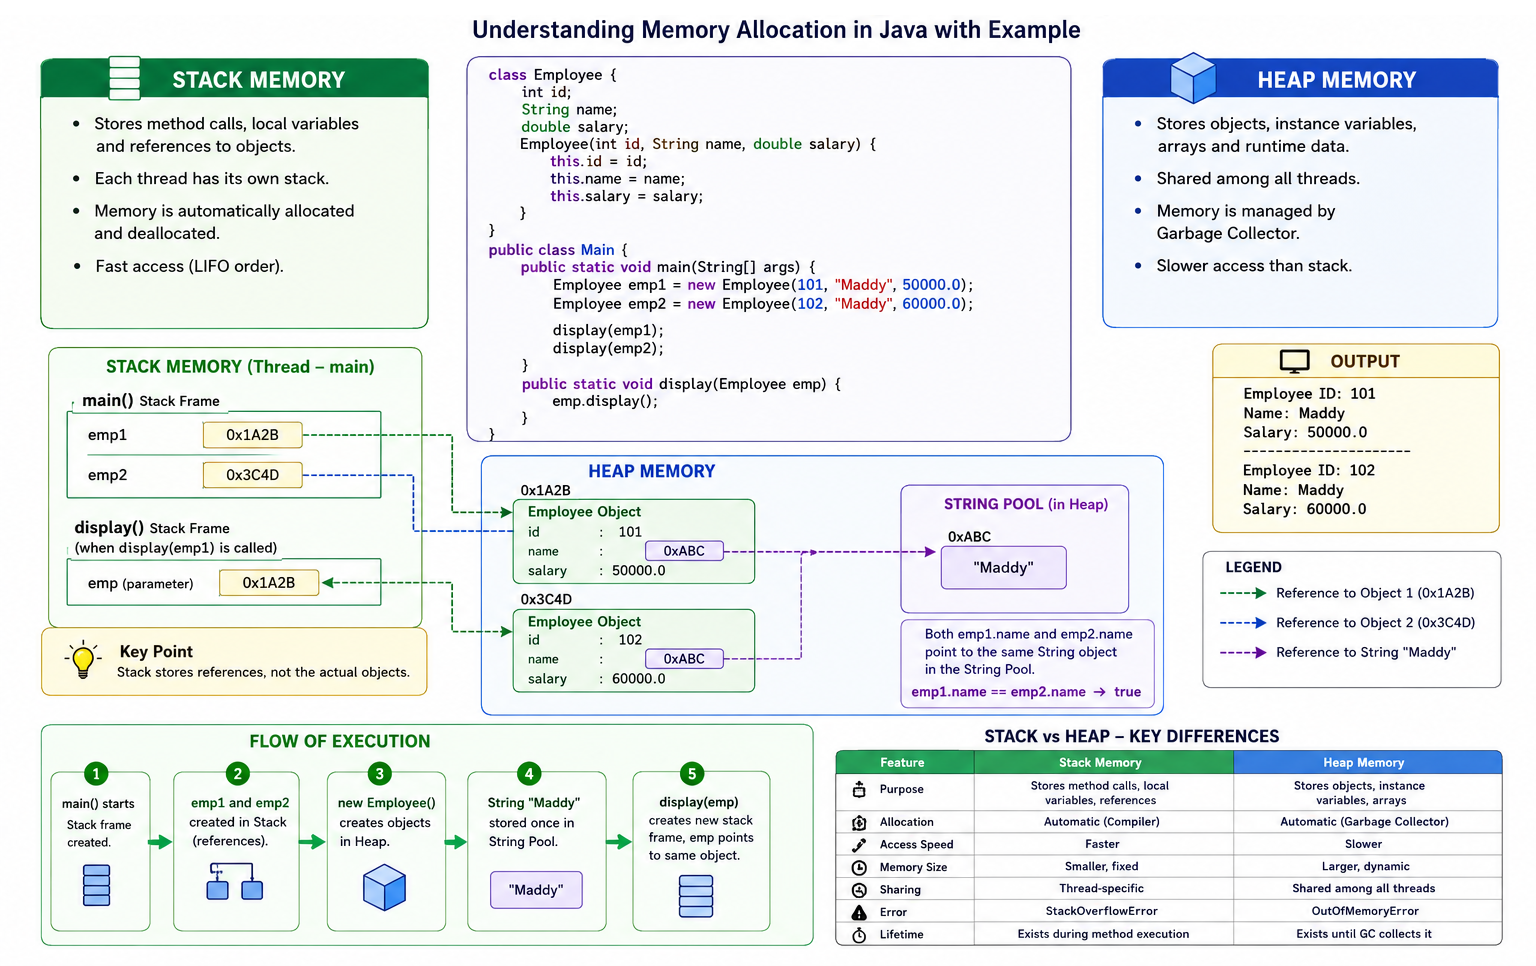
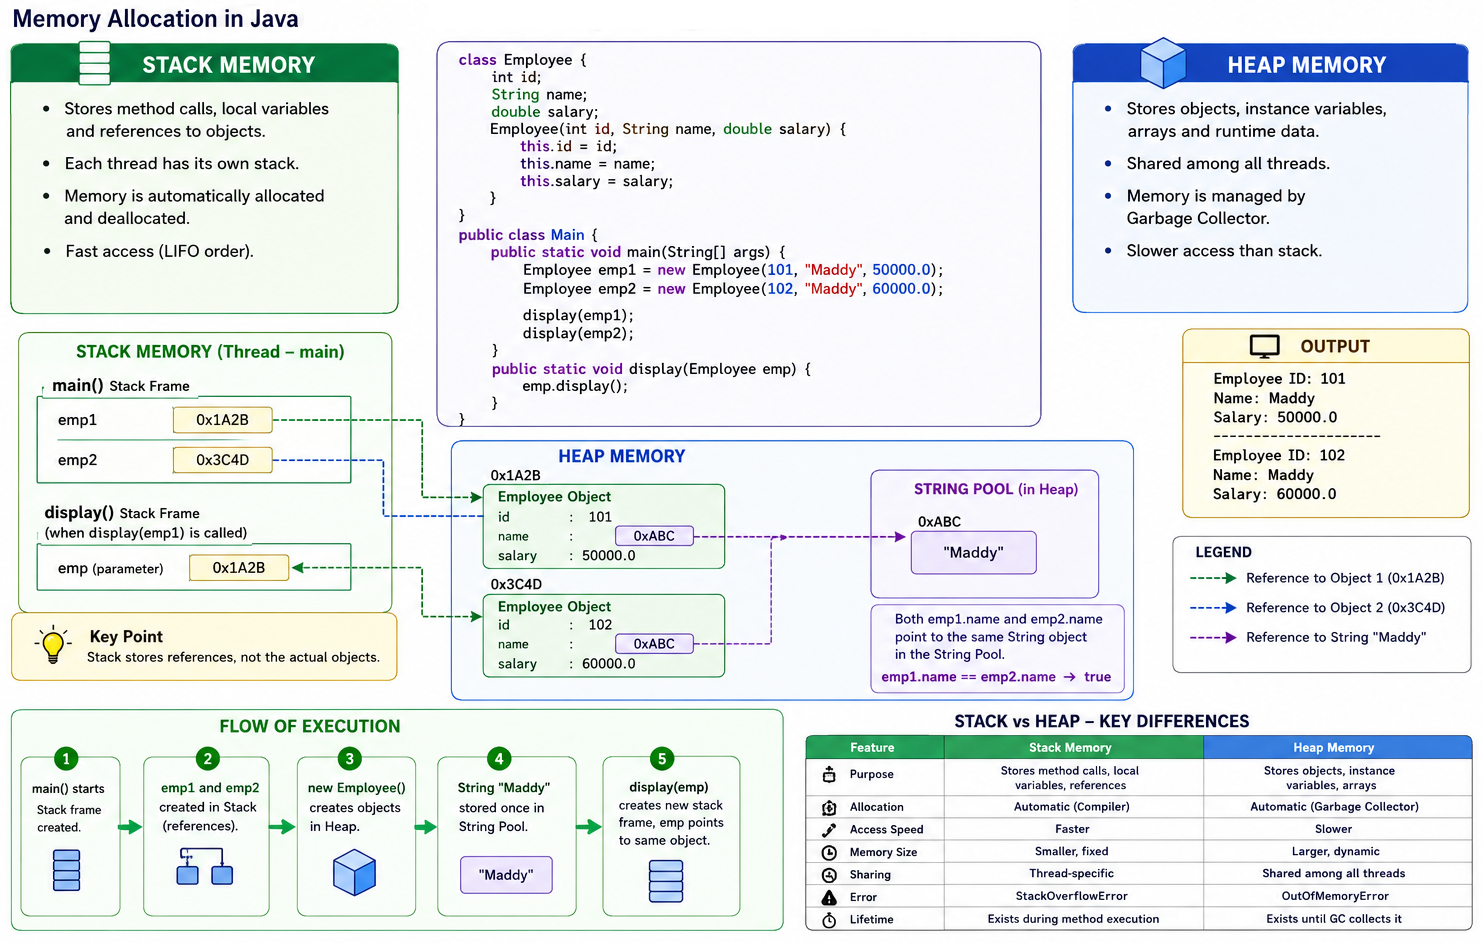
memory allocation added

Changed region(s): [[0.0, 0.0, 0.9926, 1.0], [0.7134, 0.3075, 0.7444, 0.3383]]

diff --git a/07-data-structures-algorithms/Readme.md b/07-data-structures-algorithms/Readme.md
@@ -31,6 +31,10 @@ Java programs run inside `JVM (Java Virtual Machine)` and JVM is responsible for
 
 ![JVM Memory Architeccture](/img/jvm-memory-architeccture.png)
 
+### JVM Memory Architeccture
+
+![JVM Memory Architeccture](/img/stack-heap.png)
+
 ### Memory Area Details
 
 This section defines the primary purpose of each memory segment within the JVM.